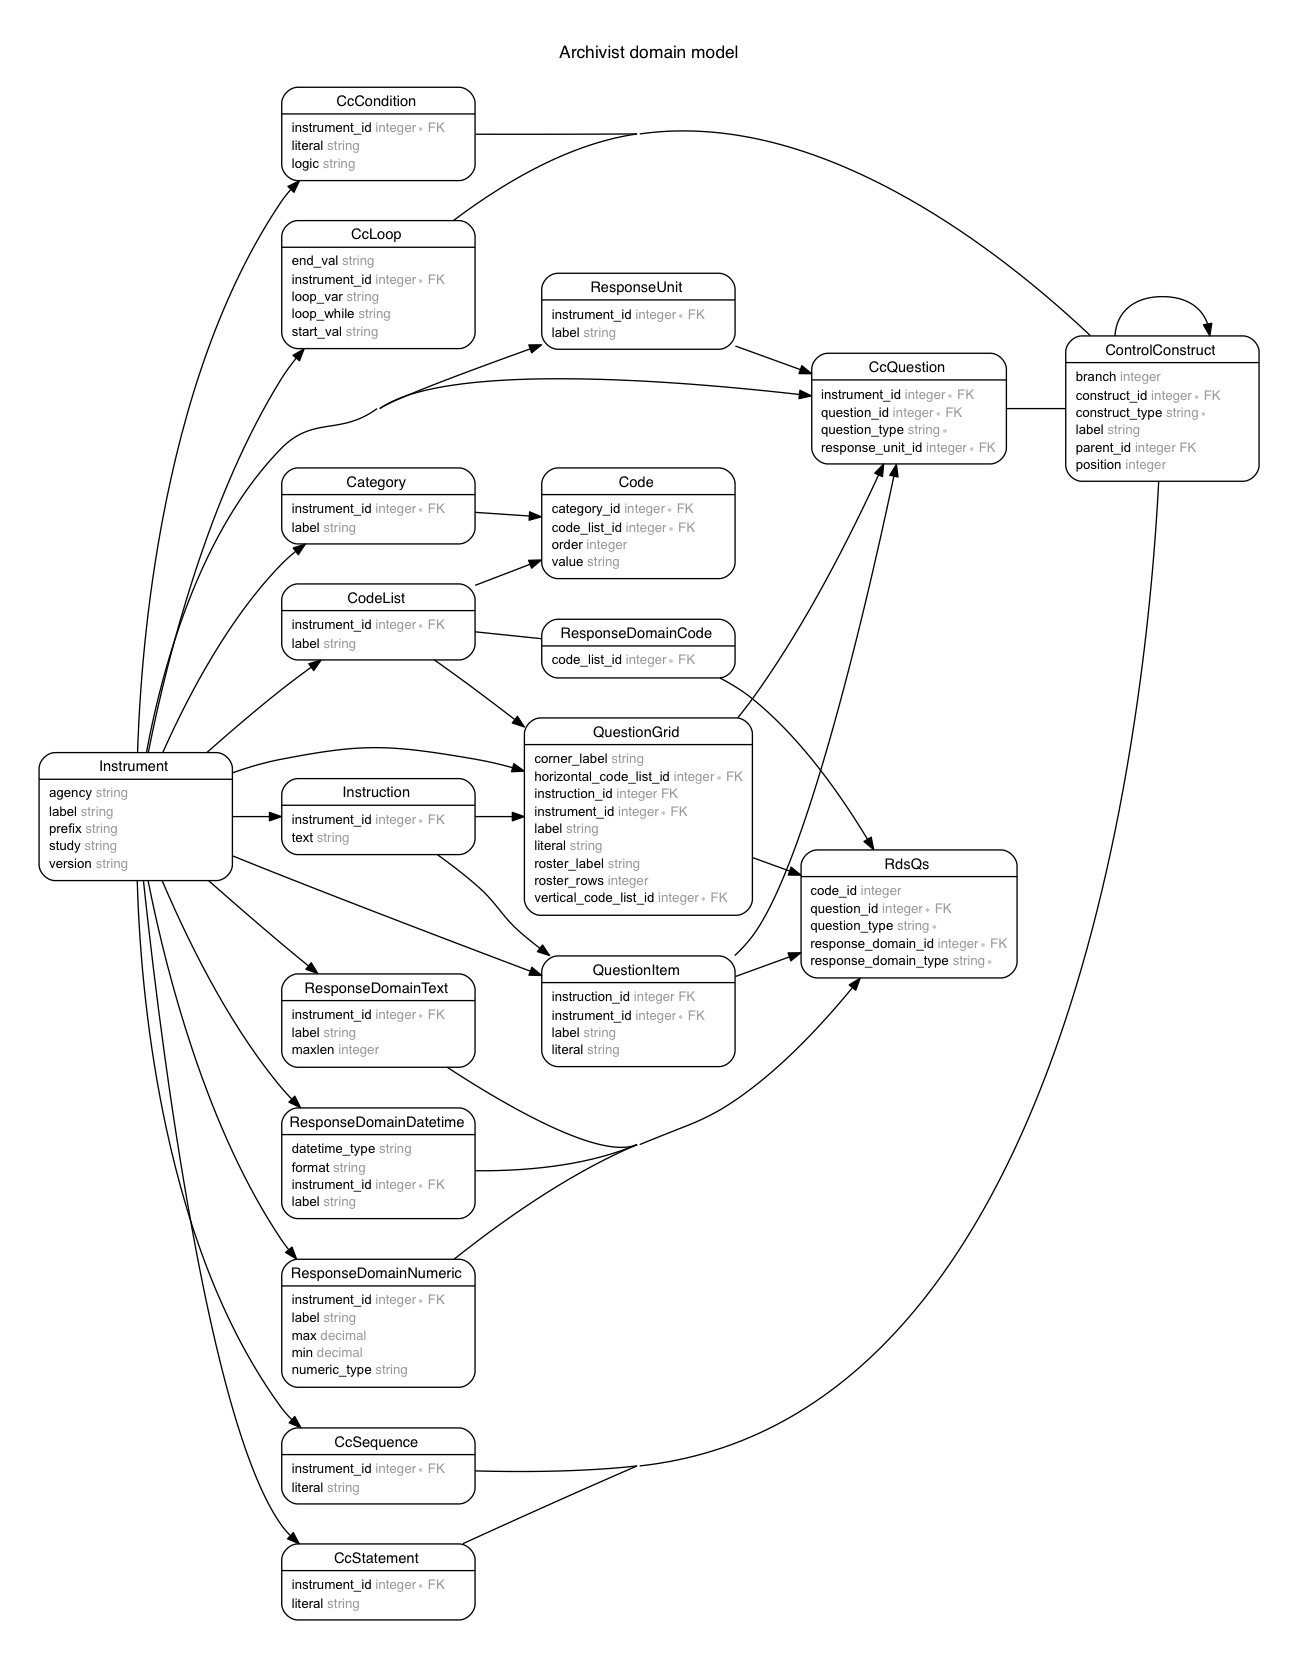
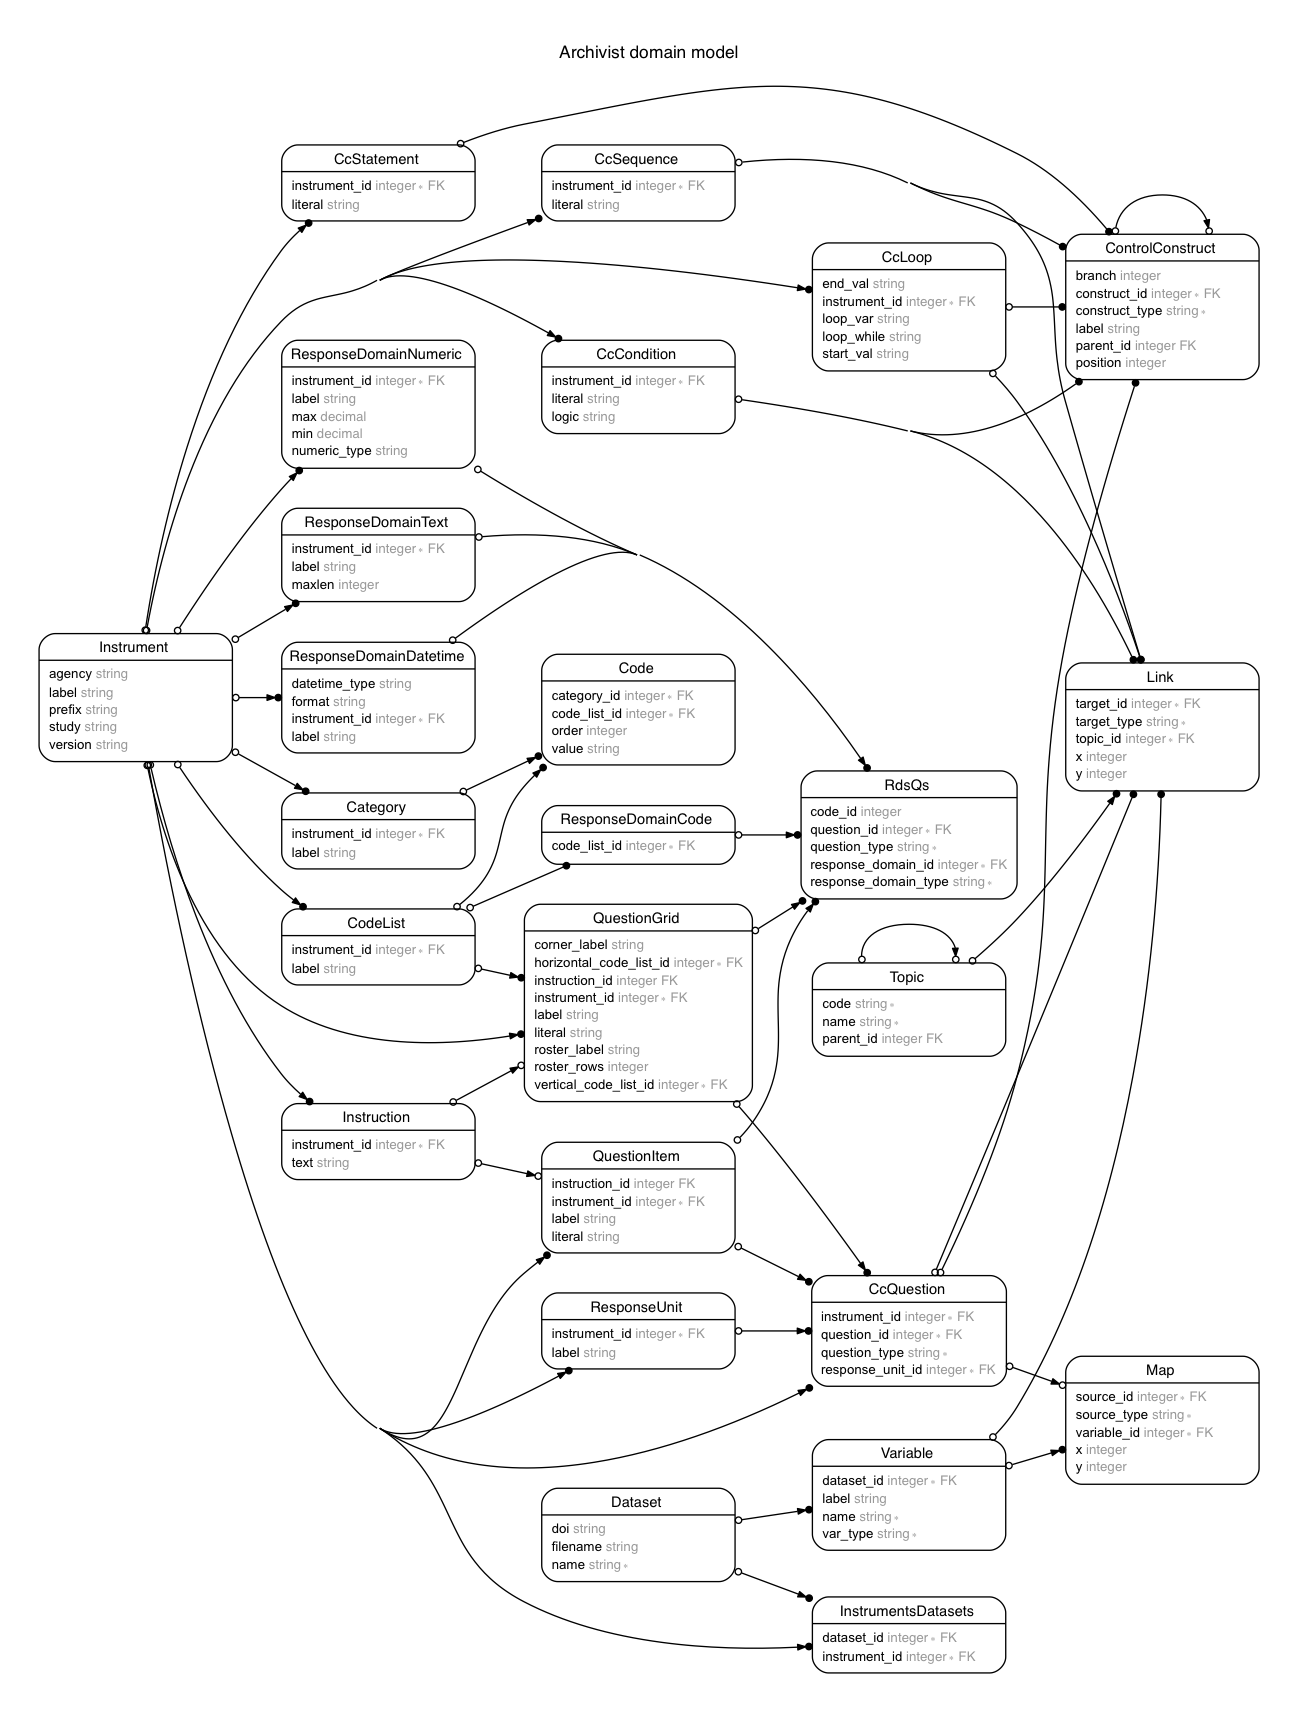
Edited README and generated erd without instrument

diff --git a/README.md b/README.md
@@ -2,25 +2,25 @@
 
 ### Models
 #### CADDIES
-* ~~category.rb~~
-* ~~cc_condition.rb~~
-* ~~cc_loop.rb~~
-* ~~cc_question.rb~~
-* ~~cc_sequence.rb~~
-* ~~cc_statement.rb~~
-* ~~code.rb~~
-* ~~code_list.rb~~
-* ~~control_construct.rb~~
-* ~~instruction.rb~~
-* ~~instrument.rb~~
-* ~~question_grid.rb~~
-* ~~question_item.rb~~
-* ~~rds_qs.rb~~
-* ~~response_domain_code.rb~~
-* ~~response_domain_datetime.rb~~
-* ~~response_domain_numeric.rb~~
-* ~~response_domain_text.rb~~
-* ~~response_unit.rb~~
+* category.rb
+* cc_condition.rb
+* cc_loop.rb
+* cc_question.rb
+* cc_sequence.rb
+* cc_statement.rb
+* code.rb
+* code_list.rb
+* control_construct.rb
+* instruction.rb
+* instrument.rb
+* question_grid.rb
+* question_item.rb
+* rds_qs.rb
+* response_domain_code.rb
+* response_domain_datetime.rb
+* response_domain_numeric.rb
+* response_domain_text.rb
+* response_unit.rb
 #### Mapper
 * topic.rb
 * variable.rb
@@ -35,13 +35,23 @@
 * role.rb     (maybe)
 * group.rb    (maybe)
 
+### Model Relationship Diagram
+Run `rake generate_erd` to regenerate (must have graphvis).
+![](/erd.png)
+
+## Configuation
+* Ruby: 2.2.1
+* Rails: 4.2.4
+* Postgres: 9.4
+* Redis: coming soon
+
+## Testing
+To run the test suite just call `rake test`. Currently 244 tests and 370 assertions.
+
 This README would normally document whatever steps are necessary to get the
 application up and running.
 
 Things you may want to cover:
-
-* Ruby version
-
 * System dependencies
 
 * Configuration
@@ -50,13 +60,9 @@ Things you may want to cover:
 
 * Database initialization
 
-* How to run the test suite
-
 * Services (job queues, cache servers, search engines, etc.)
 
 * Deployment instructions
-
-* ...
 
 
 Please feel free to use a different markup language if you do not plan to run
